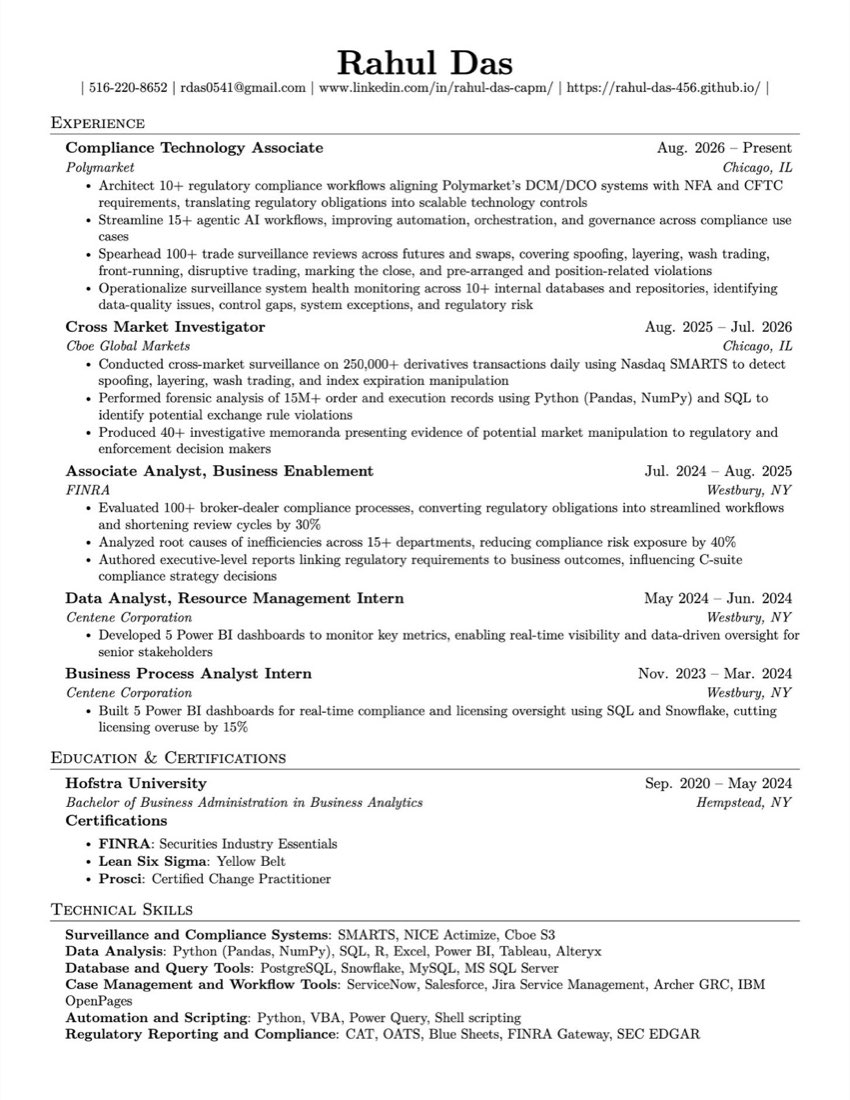
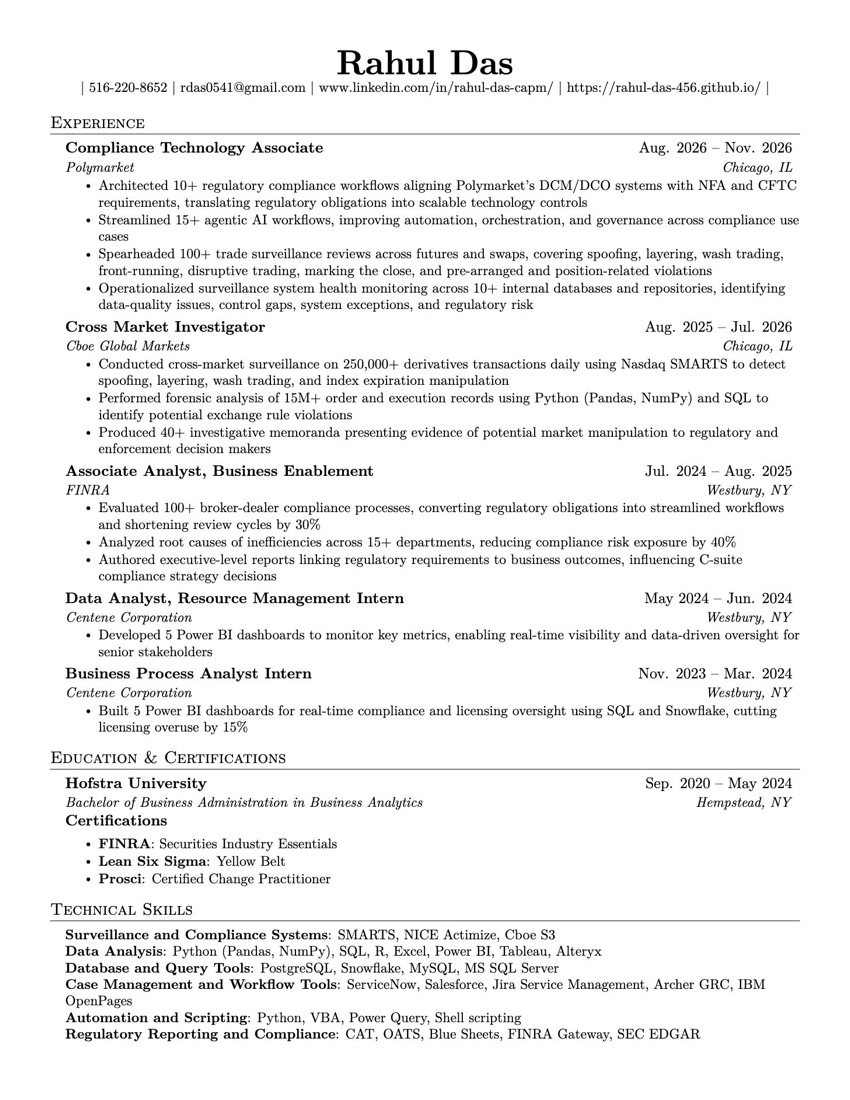
Mark Polymarket role as ended Nov 2026, update résumé PDF
Past tense for Polymarket copy on the homepage and career guide, new
résumé PDF and poster.

Claude-Session: https://claude.ai/code/session_01SgP6RrookJEwNdi9YqgypU

diff --git a/index.html b/index.html
@@ -14,10 +14,10 @@
   gtag('config', 'G-2008615M0E');
 </script>
 
-<title>Rahul Das | Trade Surveillance &amp; Compliance Technology | Polymarket, ex-Cboe, ex-FINRA</title>
+<title>Rahul Das | Trade Surveillance &amp; Compliance Technology | ex-Polymarket, ex-Cboe, ex-FINRA</title>
 
 <!-- SEO -->
-<meta name="description" content="Rahul Das, Compliance Technology Associate at Polymarket (ex-Cboe, ex-FINRA). Trade surveillance and compliance technology across futures, options and swaps: spoofing, layering, wash trading and market abuse investigations. Chicago, IL.">
+<meta name="description" content="Rahul Das, former Compliance Technology Associate at Polymarket (ex-Cboe, ex-FINRA). Trade surveillance and compliance technology across futures, options and swaps: spoofing, layering, wash trading and market abuse investigations. Chicago, IL.">
 <meta name="keywords" content="trade surveillance, compliance technology, financial compliance, market abuse detection, spoofing, layering, wash trading, cross-market investigation, SMARTS, Polymarket, Cboe Global Markets, FINRA, CFTC, NFA, derivatives, futures, options, swaps, Chicago">
 <meta name="author" content="Rahul Das">
 <meta name="robots" content="index, follow">
@@ -27,7 +27,7 @@
 <!-- Open Graph -->
 <meta property="og:type" content="profile">
 <meta property="og:title" content="Rahul Das | Trade Surveillance &amp; Compliance Technology">
-<meta property="og:description" content="Compliance Technology Associate at Polymarket. Previously Cross Market Investigator at Cboe and Associate Analyst at FINRA. 250,000+ derivatives transactions surveilled daily, 40+ investigative memoranda.">
+<meta property="og:description" content="Former Compliance Technology Associate at Polymarket. Before that, Cross Market Investigator at Cboe and Associate Analyst at FINRA. 250,000+ derivatives transactions surveilled daily, 40+ investigative memoranda.">
 <meta property="og:url" content="https://rahul-das-456.github.io/">
 <meta property="og:image" content="https://rahul-das-456.github.io/assets/rahul-das-headshot.jpg">
 <meta property="og:locale" content="en_US">
@@ -40,8 +40,7 @@
   "@context": "https://schema.org",
   "@type": "Person",
   "name": "Rahul Das",
-  "jobTitle": "Compliance Technology Associate",
-  "worksFor": { "@type": "Organization", "name": "Polymarket" },
+  "jobTitle": "Trade Surveillance and Compliance Technology",
   "image": "https://rahul-das-456.github.io/assets/rahul-das-headshot.jpg",
   "address": { "@type": "PostalAddress", "addressLocality": "Chicago", "addressRegion": "IL", "addressCountry": "US" },
   "email": "rdas0541@gmail.com",
@@ -634,10 +633,10 @@ html.lenis, html.lenis body { height: auto; }
 
     <div class="memo__body" style="--i:2">
       <div>
-        <p class="memo__lede">Trade surveillance and compliance technology. Now at Polymarket; before that, Cboe and FINRA.</p>
+        <p class="memo__lede">Trade surveillance and compliance technology. Most recently at Polymarket; before that, Cboe and FINRA.</p>
         <dl class="memo__fields">
           <dt>To</dt><dd>Hiring teams in trade surveillance and compliance</dd>
-          <dt>From</dt><dd>Rahul Das, Compliance Technology Associate</dd>
+          <dt>From</dt><dd>Rahul Das, compliance technology and surveillance</dd>
           <dt>Date</dt><dd><time id="today" datetime="2026">2026</time></dd>
           <dt>Re</dt><dd>Finding market abuse in futures, options and swaps, and building the controls that catch it</dd>
         </dl>
@@ -671,7 +670,7 @@ html.lenis, html.lenis body { height: auto; }
     <p data-reveal style="--i:1">I've watched markets from the exchange, the regulator and a new kind of venue. The rulebooks differ. The question is always the same: is this trading real, or is someone moving the price?</p>
   </div>
   <ul class="facts">
-    <li data-reveal style="--i:0"><b>Polymarket</b><span>Since Aug 2026 · compliance technology, DCM/DCO</span></li>
+    <li data-reveal style="--i:0"><b>Polymarket</b><span>Aug to Nov 2026 · compliance technology, DCM/DCO</span></li>
     <li data-reveal style="--i:1"><b>Cboe</b><span>2025 to 2026 · cross-market investigations</span></li>
     <li data-reveal style="--i:2"><b>FINRA</b><span>2024 to 2025 · broker-dealer compliance processes</span></li>
     <li data-reveal style="--i:3"><b>Hofstra</b><span>BBA, Business Analytics, 2024</span></li>
@@ -764,7 +763,7 @@ html.lenis, html.lenis body { height: auto; }
     <ol>
       <li><span class="fig" data-roll data-reveal>250,000</span><span></span><span>derivatives transactions and more, surveilled every day at Cboe in Nasdaq SMARTS</span></li>
       <li><span class="fig" data-roll data-reveal>15</span><span></span><span>million-plus order and execution records analyzed in Python and SQL</span></li>
-      <li><span class="fig" data-roll data-reveal>100</span><span></span><span>trade surveillance reviews and counting at Polymarket, across futures and swaps</span></li>
+      <li><span class="fig" data-roll data-reveal>100</span><span></span><span>trade surveillance reviews led at Polymarket, across futures and swaps</span></li>
       <li><span class="fig" data-roll data-reveal>40</span><span></span><span>investigative memoranda and more, written for regulatory and enforcement decision makers</span></li>
       <li><span class="fig" data-roll data-reveal>30</span><span></span><span>percent shorter review cycles across 100+ broker-dealer processes at FINRA</span></li>
       <li><span class="fig" data-roll data-reveal>40</span><span></span><span>percent less compliance risk exposure, root causes traced across 15+ departments</span></li>
@@ -792,14 +791,14 @@ html.lenis, html.lenis body { height: auto; }
     <div class="pages">
       <article class="page" id="job-polymarket" data-reveal>
         <header>
-          <h3>Compliance Technology Associate</h3><span class="when">Aug 2026 to now</span>
+          <h3>Compliance Technology Associate</h3><span class="when">Aug 2026 to Nov 2026</span>
           <span class="org">Polymarket · Chicago, IL</span>
         </header>
         <ul>
-          <li>Architect 10+ regulatory compliance workflows aligning Polymarket's DCM/DCO systems with NFA and CFTC requirements, turning regulatory obligations into scalable technology controls.</li>
-          <li>Run and refine 15+ agentic AI workflows, improving automation, orchestration and governance across compliance use cases.</li>
-          <li>Lead 100+ trade surveillance reviews across futures and swaps: spoofing, layering, wash trading, front-running, disruptive trading, marking the close, and pre-arranged and position-related violations.</li>
-          <li>Run surveillance system health monitoring across 10+ internal databases and repositories, catching data-quality issues, control gaps, system exceptions and regulatory risk.</li>
+          <li>Architected 10+ regulatory compliance workflows aligning Polymarket's DCM/DCO systems with NFA and CFTC requirements, turning regulatory obligations into scalable technology controls.</li>
+          <li>Ran and refined 15+ agentic AI workflows, improving automation, orchestration and governance across compliance use cases.</li>
+          <li>Led 100+ trade surveillance reviews across futures and swaps: spoofing, layering, wash trading, front-running, disruptive trading, marking the close, and pre-arranged and position-related violations.</li>
+          <li>Ran surveillance system health monitoring across 10+ internal databases and repositories, catching data-quality issues, control gaps, system exceptions and regulatory risk.</li>
         </ul>
       </article>
 
@@ -865,7 +864,7 @@ html.lenis, html.lenis body { height: auto; }
       <h2 id="cv-h" class="head" data-reveal>The résumé, on one page</h2>
       <p data-reveal style="--i:1">The same record as above, in the PDF I send to hiring teams. Read it here, or keep a copy.</p>
       <dl class="cv__facts" data-reveal style="--i:2">
-        <dt>Now</dt><dd>Polymarket, compliance technology</dd>
+        <dt>Latest</dt><dd>Polymarket, compliance technology</dd>
         <dt>Before</dt><dd>Cboe, FINRA, Centene</dd>
         <dt>Holds</dt><dd>SIE, CAPM, Prosci, Lean Six Sigma</dd>
       </dl>
@@ -951,10 +950,10 @@ html.lenis, html.lenis body { height: auto; }
       <img class="avatar" src="assets/rahul-das-headshot.jpg" width="800" height="1200" alt="" loading="lazy">
       <h2 id="letter-h" class="sr-only">A note from Rahul</h2>
       <p>I got into surveillance because markets leave a trail. Every order, cancel and fill is on the record. The job is reading that trail well enough to <mark>tell intent from noise</mark>, then writing it up so it holds under scrutiny.</p>
-      <p>At Cboe I did that across options and futures with SMARTS, Python and SQL. At FINRA I learned the other side: how an obligation in a rulebook becomes a control someone actually runs. At Polymarket I build both into the systems of a CFTC-regulated exchange and clearinghouse.</p>
+      <p>At Cboe I did that across options and futures with SMARTS, Python and SQL. At FINRA I learned the other side: how an obligation in a rulebook becomes a control someone actually runs. At Polymarket I built both into the systems of a CFTC-regulated exchange and clearinghouse.</p>
       <p>Outside work, soccer taught me to read movement under pressure. Origami taught me precision. The ukulele is still teaching me patience; I wrote an app so I could learn it by ear.</p>
       <p>If you're building a surveillance or compliance technology team, I'd like to hear about it.</p>
-      <div><p class="sign">Rahul Das</p><p class="role">Compliance Technology Associate, Polymarket</p></div>
+      <div><p class="sign">Rahul Das</p><p class="role">Former Compliance Technology Associate, Polymarket</p></div>
     </div>
     <svg class="edge" viewBox="0 0 640 14" preserveAspectRatio="none" aria-hidden="true"><path fill="currentColor" d="M0 14V7a8 7 0 0 0 16 0a8 7 0 0 0 16 0a8 7 0 0 0 16 0a8 7 0 0 0 16 0a8 7 0 0 0 16 0a8 7 0 0 0 16 0a8 7 0 0 0 16 0a8 7 0 0 0 16 0a8 7 0 0 0 16 0a8 7 0 0 0 16 0a8 7 0 0 0 16 0a8 7 0 0 0 16 0a8 7 0 0 0 16 0a8 7 0 0 0 16 0a8 7 0 0 0 16 0a8 7 0 0 0 16 0a8 7 0 0 0 16 0a8 7 0 0 0 16 0a8 7 0 0 0 16 0a8 7 0 0 0 16 0a8 7 0 0 0 16 0a8 7 0 0 0 16 0a8 7 0 0 0 16 0a8 7 0 0 0 16 0a8 7 0 0 0 16 0a8 7 0 0 0 16 0a8 7 0 0 0 16 0a8 7 0 0 0 16 0a8 7 0 0 0 16 0a8 7 0 0 0 16 0a8 7 0 0 0 16 0a8 7 0 0 0 16 0a8 7 0 0 0 16 0a8 7 0 0 0 16 0a8 7 0 0 0 16 0a8 7 0 0 0 16 0a8 7 0 0 0 16 0a8 7 0 0 0 16 0a8 7 0 0 0 16 0V14Z"/></svg>
     <div class="tear">

diff --git a/trade-surveillance-career-guide.html b/trade-surveillance-career-guide.html
@@ -318,7 +318,7 @@
 </div>
 
 <div class="ref-wrap">
-  <p class="ref-txt">Written by <em>Rahul Das</em>, Compliance Technology Associate at Polymarket. Previously Cboe and FINRA. Chicago, IL. SIE &middot; CAPM &middot; Lean Six Sigma.</p>
+  <p class="ref-txt">Written by <em>Rahul Das</em>, former Compliance Technology Associate at Polymarket. Before that, Cboe and FINRA. Chicago, IL. SIE &middot; CAPM &middot; Lean Six Sigma.</p>
   <a class="back-link" href="./index.html">Back to Portfolio</a>
 </div>
 
